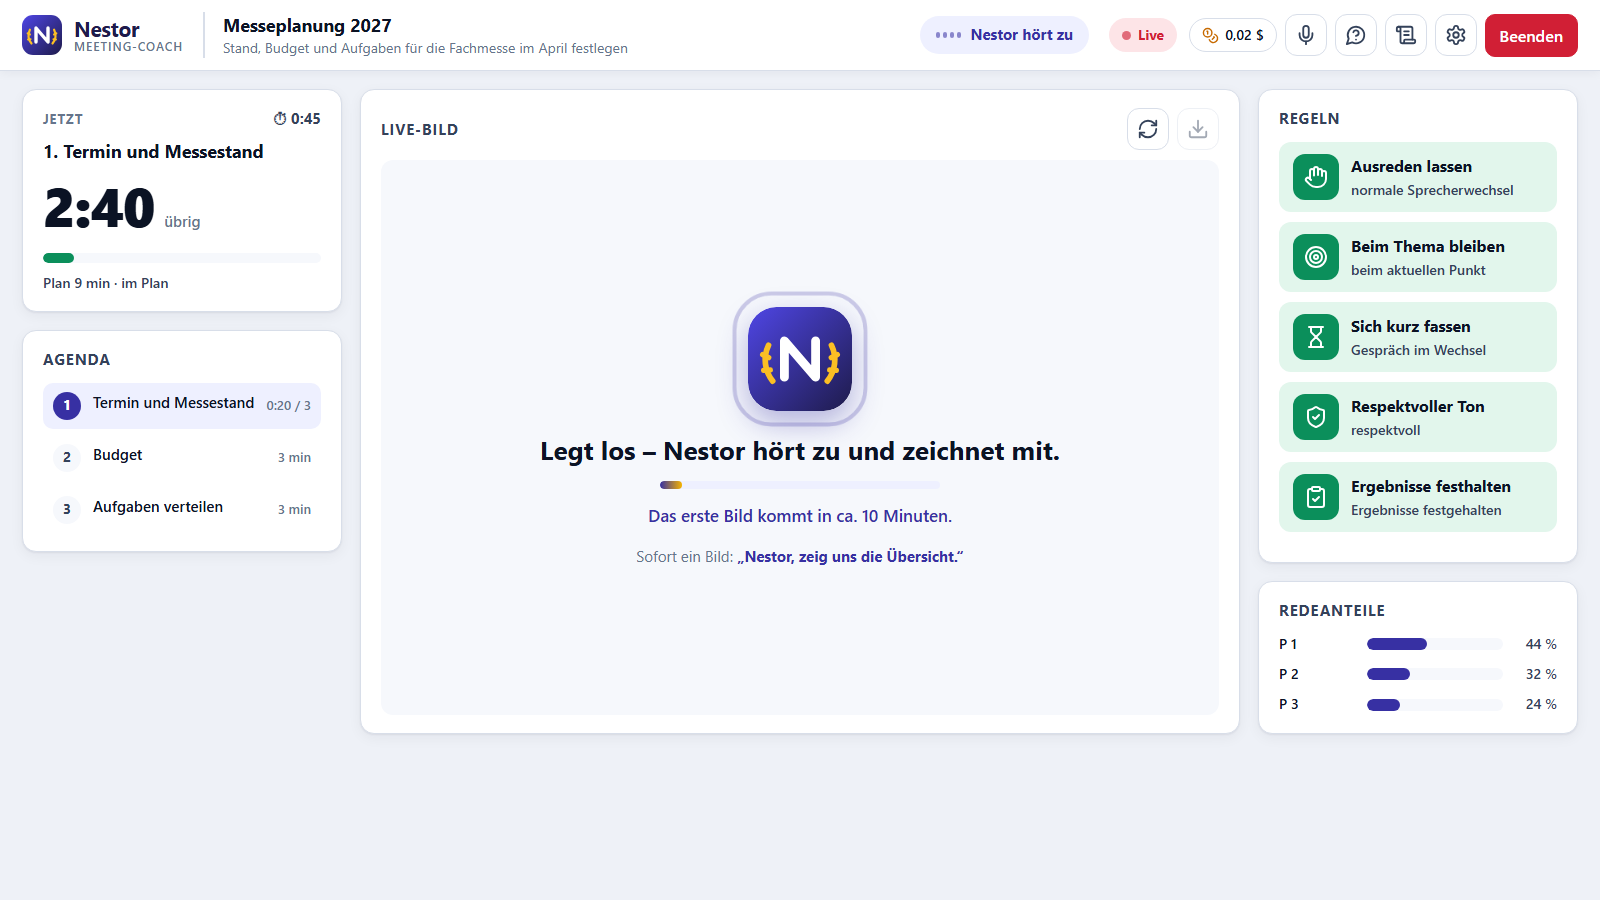
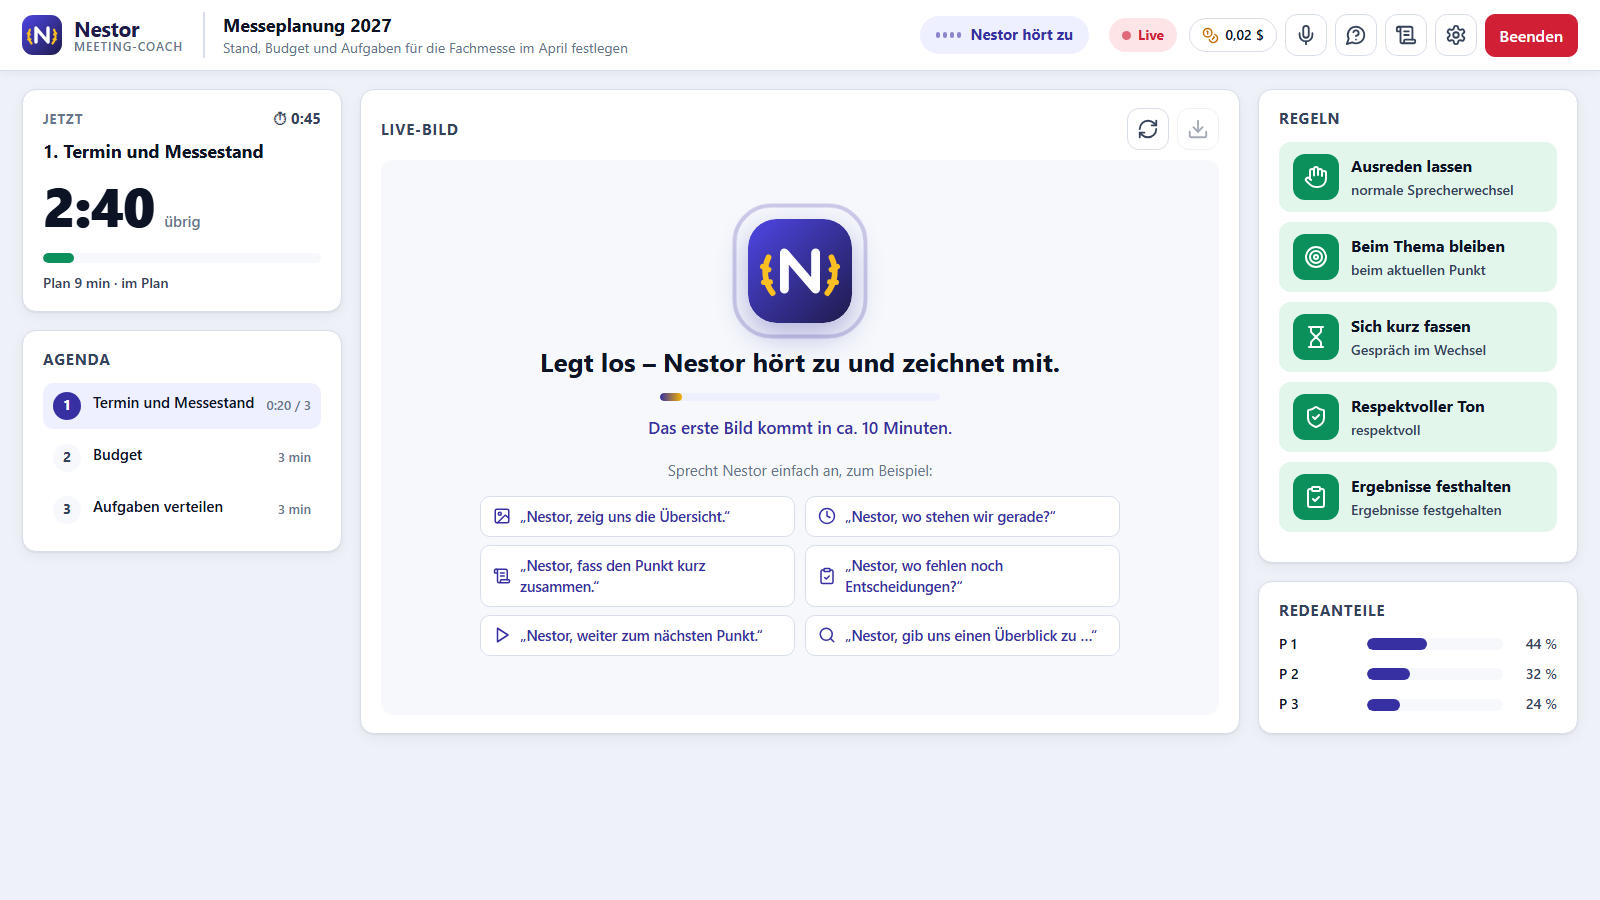
Platzhalter zeigt, wie man Nestor anspricht; Demo-Varianten mit Zusammenfassungsbild

Changed region(s): [[0.3125, 0.2178, 0.6875, 0.7156]]

diff --git a/static/app.js b/static/app.js
@@ -35,6 +35,7 @@ const PFADE = {
   datei: '<path d="M15 2H6a2 2 0 0 0-2 2v16a2 2 0 0 0 2 2h12a2 2 0 0 0 2-2V7Z"/><path d="M14 2v4a2 2 0 0 0 2 2h4"/><path d="M16 13H8"/><path d="M16 17H8"/>',
   zu: '<path d="M18 6 6 18"/><path d="m6 6 12 12"/>',
   muenze: '<circle cx="8" cy="8" r="6"/><path d="M18.09 10.37A6 6 0 1 1 10.34 18"/><path d="M7 6h1v4"/><path d="m16.71 13.88.7.71-2.82 2.82"/>',
+  suche: '<circle cx="11" cy="11" r="8"/><path d="m21 21-4.3-4.3"/>',
   achtung: '<path d="m21.73 18-8-14a2 2 0 0 0-3.48 0l-8 14A2 2 0 0 0 4 21h16a2 2 0 0 0 1.73-3"/><path d="M12 9v4"/><path d="M12 17h.01"/>',
   // Regeln
   ausreden: '<path d="M18 11V6a2 2 0 0 0-4 0"/><path d="M14 10V4a2 2 0 0 0-4 0v2"/><path d="M10 10.5V6a2 2 0 0 0-4 0v8"/><path d="M18 8a2 2 0 1 1 4 0v6a8 8 0 0 1-8 8h-2c-2.8 0-4.5-.86-6-2.34l-3.6-3.6a2 2 0 0 1 2.83-2.82L7 15"/>',
@@ -485,6 +486,7 @@ function verbinden() {
   iconSetzen("btn-transkript", "transkript"); iconSetzen("btn-einstellungen", "einstellungen");
   iconSetzen("btn-bild", "neu"); iconSetzen("btn-bild-png", "speichern"); iconSetzen("btn-bild-analyse", "datei");
   iconSetzen("kosten-icon", "muenze");
+  document.querySelectorAll(".bl-kann li").forEach((li) => li.prepend(icon(li.dataset.icon)));
   iconSetzen("hinweis-zu", "zu"); iconSetzen("leiste-zu", "zu");
   $("f-titel").value = "Testmeeting";
   punktZeile({ titel: "Ziel und Ablauf klären", ziel: "Gemeinsames Verständnis, worüber heute entschieden wird", minuten: 2 });

diff --git a/static/style.css b/static/style.css
@@ -224,7 +224,13 @@ label { display: flex; flex-direction: column; gap: 6px; font-weight: 600; font-
 .bl-weg span { display: block; height: 100%; width: 0; border-radius: 4px; transition: width 1s linear;
   background: linear-gradient(90deg, var(--marke), var(--gold)); }
 .bl-wann { margin: 0; font-size: 17px; font-weight: 600; color: var(--marke); }
-.bl-tipp { margin: 4px 0 0; font-size: 15px; color: var(--text-3); }
+.bl-tipp { margin: 6px 0 0; font-size: 15px; color: var(--text-3); }
+.bl-kann { list-style: none; margin: 0; padding: 0; display: grid; grid-template-columns: repeat(2, minmax(0, 1fr));
+  gap: 8px 10px; max-width: 640px; width: 100%; }
+.bl-kann li { display: flex; align-items: center; gap: 9px; padding: 9px 12px; border-radius: 10px; text-align: left;
+  background: var(--flaeche); border: 1px solid var(--rand); font-size: 14.5px; font-weight: 600; color: var(--marke); }
+.bl-kann svg { width: 18px; height: 18px; flex: none; color: var(--marke); }
+@media (max-width: 700px) { .bl-kann { grid-template-columns: 1fr; } }
 .bild-arbeitet { position: absolute; top: 14px; right: 14px; display: flex; align-items: center; gap: 10px;
   padding: 8px 14px; border-radius: 999px; background: var(--marke); color: #fff; font-weight: 600; font-size: 14px; }
 .kreisel { width: 16px; height: 16px; border-radius: 50%; border: 3px solid rgba(255,255,255,.35); border-top-color: #fff;

diff --git a/static/index.html b/static/index.html
@@ -218,7 +218,15 @@
           <p id="bild-spruch" class="bl-spruch">Legt los – Nestor hört zu und zeichnet mit.</p>
           <div class="bl-weg"><span id="bild-weg"></span></div>
           <p id="bild-wann" class="bl-wann"></p>
-          <p class="bl-tipp">Sofort ein Bild: <strong>„Nestor, zeig uns die Übersicht.“</strong></p>
+          <p class="bl-tipp">Sprecht Nestor einfach an, zum Beispiel:</p>
+          <ul class="bl-kann">
+            <li data-icon="bild">„Nestor, zeig uns die Übersicht.“</li>
+            <li data-icon="zeit">„Nestor, wo stehen wir gerade?“</li>
+            <li data-icon="transkript">„Nestor, fass den Punkt kurz zusammen.“</li>
+            <li data-icon="ergebnisse">„Nestor, wo fehlen noch Entscheidungen?“</li>
+            <li data-icon="weiter">„Nestor, weiter zum nächsten Punkt.“</li>
+            <li data-icon="suche">„Nestor, gib uns einen Überblick zu …“</li>
+          </ul>
         </div>
         <div id="bild-arbeitet" class="bild-arbeitet" hidden><span class="kreisel"></span> Nestor zeichnet …</div>
       </div>

diff --git a/demo/README.md b/demo/README.md
@@ -10,10 +10,27 @@ synthetisch (OpenAI-Sprachausgabe), die Aufnahme ist also frei verwendbar. Erzeu
 | `messeplanung.json` | Einrichtung: Titel, Ziel, Agenda mit je 1 min, sechs Gesprächsregeln, Nestor an |
 | `dashboard_live.png` | Dashboard bei 2:09: Ton-Regel rot, Nestor beantwortet „Wo stehen wir gerade?“ |
 | `dashboard_ende.png` | Dashboard nach dem Meeting: Agenda mit Ergebnissen, Live-Bild, Redeanteile |
-| `dashboard_gruen.png` | **Nachgestellt**: früh im Meeting, alle Regeln grün, Platzhalter bis zum ersten Live-Bild |
+| `dashboard_gruen.png` | **Nachgestellt**: früh im Meeting, alle Regeln grün, Platzhalter bis zum ersten Live-Bild mit Beispielen, wie man Nestor anspricht |
+| `dashboard_gruen_bild.png` | **Nachgestellt**: wie oben, mit dem Zusammenfassungsbild im Live-Bild |
 | `dashboard_monolog.png` | **Nachgestellt**, nicht aus einem Lauf: Monolog-Hinweis, wenn eine Person länger als 1 min am Stück spricht (Texte und Darstellung wie im echten Dashboard) |
+| `dashboard_monolog_bild.png` | **Nachgestellt**: Monolog-Hinweis, mit dem Zusammenfassungsbild im Live-Bild |
 | `zusammenfassung.png` | Meeting-Zusammenfassung (Live-Bild, Stand 3:11) |
 | `protokoll.md` | Ergebnisse je Punkt, Hinweise an die Runde, Transkript |
+
+## Was Nestor kann
+
+Nestor wird mit seinem Namen angesprochen und antwortet gesprochen und als Untertitel:
+
+- „Nestor, wo stehen wir gerade?“ – Punkt, Restzeit, was schon festgehalten ist
+- „Nestor, fass den Punkt kurz zusammen.“ – auch nur den letzten Punkt
+- „Nestor, was steht noch an?“ und „Wo fehlen noch Entscheidungen?“
+- „Nestor, zeig uns die Übersicht.“ – zeichnet das Live-Bild, auch mit Fokus („nur das Budget“)
+- „Nestor, weiter zum nächsten Punkt.“ – wechselt die Agenda
+- „Nestor, gib uns einen Überblick zu …“ – kurze Websuche, Quellen erscheinen im Dashboard
+- „Nestor, hör kurz nicht zu.“ – pausiert, bis jemand im Dashboard auf Weiter drückt
+
+Rückfragen gehen ohne erneuten Namen, solange das Gespräch läuft, und Nestor lässt sich unterbrechen.
+Zu Beginn begrüßt er die Runde; wer dann „Nein“ sagt, schaltet ihn ab, und nichts wird behalten.
 
 ## Abspielen
 
